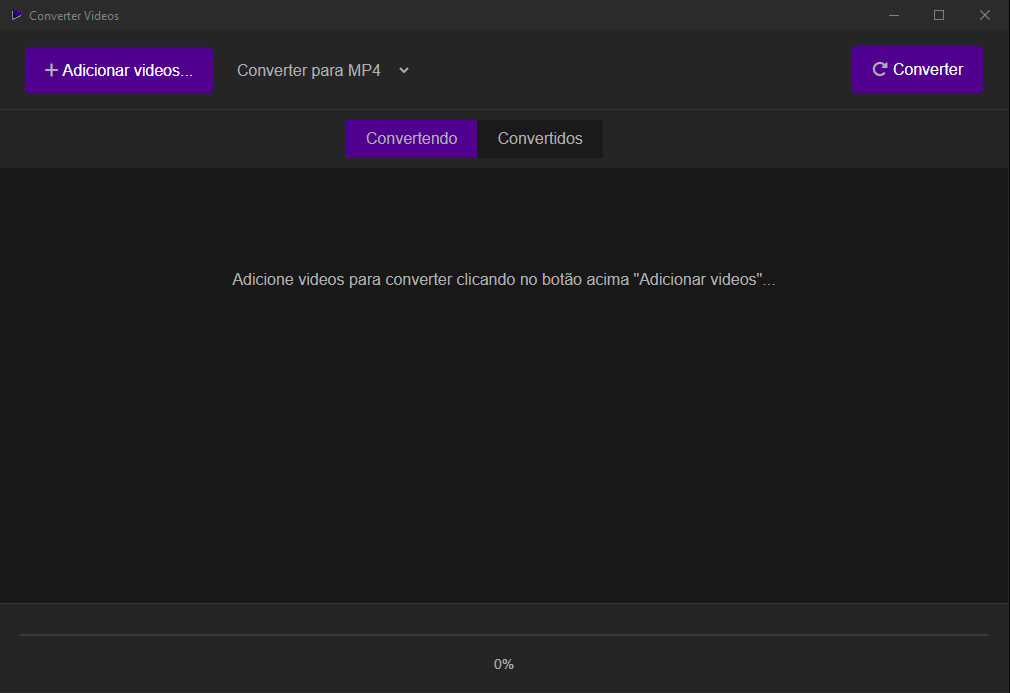
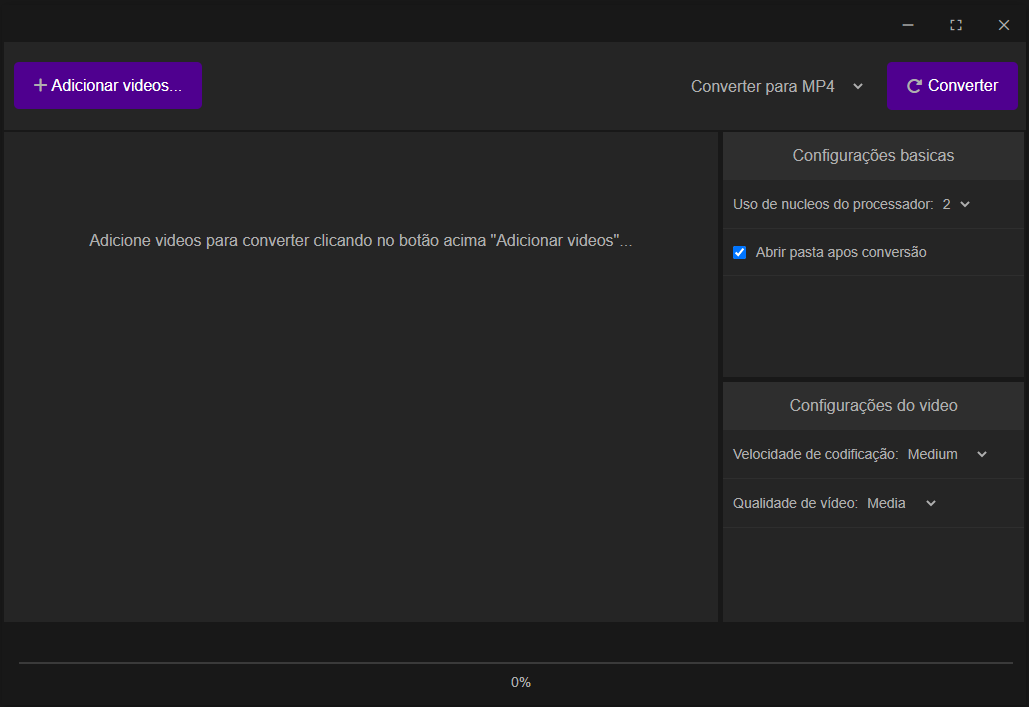
window frame customization

diff --git a/src/renderer/styles/styles.scss b/src/renderer/styles/styles.scss
@@ -30,14 +30,41 @@ $color-progressBg: #3a3a3a;
 body {
   font-family: Arial, Helvetica, sans-serif;
   background-color: $color-bg;
+  border: 2px solid $color-bg;
 }
 
 header {
-  padding: 20px 10px;
   background-color: $color-twobg;
   position: fixed;
   width: 100%;
+
+  div.windowoptions {
+    height: 35px;
+    background-color: $color-bg;
+    width: 100%;
+    display: flex;
+    justify-content: space-between;
+    -webkit-app-region: drag;
+
+    div.side {
+      display: flex;
+      align-items: center;
+
+      span {
+        font-size: 18px;
+        padding: 5px 15px;
+        -webkit-app-region: no-drag;
+        cursor: pointer;
+
+        &:hover {
+          background-color: $color-button;
+        }
+      }
+    }
+  }
+
   form {
+    padding: 20px 10px;
     display: flex;
     justify-content: space-between;
     align-items: center;
@@ -108,12 +135,46 @@ section {
   display: flex;
   justify-content: space-between;
   align-items: center;
-  padding-top: 90px;
+  padding-top: 120px;
   border-top: 5px solid #181818;
+
+  #popUpVideoAnalize {
+    position: fixed;
+    width: 100%;
+    height: 95vh;
+    bottom: 0;
+    background-color: #000000b4;
+    display: none;
+    z-index: 999;
+
+    justify-content: center;
+    align-items: center;
+
+    div.popUp {
+      width: 400px;
+      background-color: #181818;
+      padding: 50px 30px;
+      display: flex;
+      flex-direction: column;
+      align-items: center;
+      border-radius: 10px;
+
+      h3 {
+        text-align: center;
+      }
+
+      img {
+        // margin: 0 auto;
+        padding-top: 30px;
+        width: 30px;
+        object-fit: contain;
+      }
+    }
+  }
 
   #videos_for_converte_Container {
     width: 70%;
-    height: 80vh;
+    height: 70vh;
     background-color: #252525;
 
     #convertingList {
@@ -175,11 +236,12 @@ section {
   }
   #options_Container {
     width: 30%;
+    // height: 70vh;
     background-color: #252525;
 
     div {
-      height: 40vh;
-      border: 5px solid #181818;
+      height: 35vh;
+      border-left: 5px solid #181818;
       border-top: 0px;
       border-bottom: 0px;
       background-color: #252525;
@@ -232,7 +294,7 @@ section {
 #progress-bar_container {
   background-color: $color-bg;
   display: flex;
-  display: none;
+  // display: none;
   flex-direction: column;
   width: 100%;
   position: fixed;

diff --git a/src/renderer/styles/styles.css b/src/renderer/styles/styles.css
@@ -19,15 +19,37 @@
 body {
   font-family: Arial, Helvetica, sans-serif;
   background-color: #181818;
+  border: 2px solid #181818;
 }
 
 header {
-  padding: 20px 10px;
   background-color: #252525;
   position: fixed;
   width: 100%;
 }
+header div.windowoptions {
+  height: 35px;
+  background-color: #181818;
+  width: 100%;
+  display: flex;
+  justify-content: space-between;
+  -webkit-app-region: drag;
+}
+header div.windowoptions div.side {
+  display: flex;
+  align-items: center;
+}
+header div.windowoptions div.side span {
+  font-size: 18px;
+  padding: 5px 15px;
+  -webkit-app-region: no-drag;
+  cursor: pointer;
+}
+header div.windowoptions div.side span:hover {
+  background-color: #4f008f;
+}
 header form {
+  padding: 20px 10px;
   display: flex;
   justify-content: space-between;
   align-items: center;
@@ -88,12 +110,41 @@ section {
   display: flex;
   justify-content: space-between;
   align-items: center;
-  padding-top: 90px;
+  padding-top: 120px;
   border-top: 5px solid #181818;
+}
+section #popUpVideoAnalize {
+  position: fixed;
+  width: 100%;
+  height: 95vh;
+  bottom: 0;
+  background-color: rgba(0, 0, 0, 0.7058823529);
+  display: none;
+  z-index: 999;
+  justify-content: center;
+  align-items: center;
+}
+section #popUpVideoAnalize div.popUp {
+  width: 400px;
+  background-color: #181818;
+  padding: 50px 30px;
+  display: flex;
+  flex-direction: column;
+  align-items: center;
+  border-radius: 10px;
+}
+section #popUpVideoAnalize div.popUp h3 {
+  text-align: center;
+}
+section #popUpVideoAnalize div.popUp img {
+  padding-top: 30px;
+  width: 30px;
+  -o-object-fit: contain;
+     object-fit: contain;
 }
 section #videos_for_converte_Container {
   width: 70%;
-  height: 80vh;
+  height: 70vh;
   background-color: #252525;
 }
 section #videos_for_converte_Container #convertingList {
@@ -150,8 +201,8 @@ section #options_Container {
   background-color: #252525;
 }
 section #options_Container div {
-  height: 40vh;
-  border: 5px solid #181818;
+  height: 35vh;
+  border-left: 5px solid #181818;
   border-top: 0px;
   border-bottom: 0px;
   background-color: #252525;
@@ -195,7 +246,6 @@ section #options_Container #videoConfigs {
 #progress-bar_container {
   background-color: #181818;
   display: flex;
-  display: none;
   flex-direction: column;
   width: 100%;
   position: fixed;

diff --git a/src/renderer/renderer.js b/src/renderer/renderer.js
@@ -25,7 +25,21 @@ const uiElements = {
   SpeedOption: document.querySelector("#SpeedOption"),
   quality: document.querySelector("#quality"),
   checkboxOpendDir: document.getElementById("checkboxOpendDir"),
+  windowMinimize: document.getElementById("windowMinimize"),
+  windowfullScreen: document.getElementById("windowfullScreen"),
+  closeWindowbtn: document.getElementById("closeWindowbtn"),
+  popUpVideoAnalize: document.getElementById("popUpVideoAnalize"),
 };
+
+uiElements.closeWindowbtn.addEventListener("click", () => {
+  ipcRenderer.send("closeWindow");
+});
+uiElements.windowfullScreen.addEventListener("click", () => {
+  ipcRenderer.send("windowFullScreen");
+});
+uiElements.windowMinimize.addEventListener("click", () => {
+  ipcRenderer.send("Windowminimize");
+});
 
 let videosOnlistForConvert = [];
 let videoHistory = [];
@@ -194,8 +208,6 @@ ipcRenderer.on("conversion-complete", (event, videoName, outputPath) => {
       });
     }
   }
-
-  // addVideosConvertedOnHistory(videoName);
 });
 
 ipcRenderer.on("conversion-error", (event, videoName, error) => {
@@ -206,12 +218,13 @@ ipcRenderer.on("Videoinfoanalysis-started", (event, videoName) => {
   VideoInfoAnalysisList.push(videoName);
 
   if (VideoInfoAnalysisList.length <= 1) {
-    window.alert("Analizando informaçoes dos videos");
+    uiElements.popUpVideoAnalize.style.display = "flex";
   }
 });
 
 ipcRenderer.on("videoInformation-ready", (event, videoName, videoInfo) => {
   if (videoName && videoInfo) {
+    uiElements.popUpVideoAnalize.style.display = "none";
     const item = `
     <div id="${videoName}" class="videoItemList">
       <span class="videoname" id="${videoName}_videoname">

diff --git a/src/renderer/index.html b/src/renderer/index.html
@@ -9,10 +9,37 @@
       src="https://kit.fontawesome.com/2e576afcbf.js"
       crossorigin="anonymous"
     ></script>
+    <link
+      rel="stylesheet"
+      href="https://fonts.googleapis.com/css2?family=Material+Symbols+Outlined:opsz,wght,FILL,GRAD@48,400,0,0"
+    />
   </head>
 
   <body>
     <header>
+      <div class="windowoptions">
+        <div class="side"></div>
+        <div class="side">
+          <span
+            title="Minimize"
+            class="material-symbols-outlined"
+            id="windowMinimize"
+          >
+            remove
+          </span>
+          <span class="material-symbols-outlined" id="windowfullScreen">
+            fullscreen
+          </span>
+
+          <span
+            title="Close"
+            class="material-symbols-outlined"
+            id="closeWindowbtn"
+          >
+            close
+          </span>
+        </div>
+      </div>
       <form>
         <div>
           <label id="labelForinput-file" class="form_item" for="input-file"
@@ -44,6 +71,12 @@
     </header>
 
     <section>
+      <div id="popUpVideoAnalize">
+        <div class="popUp">
+          <h3>Analizando informaçoes dos videos</h3>
+          <img src="../assets/loading-gif.gif" alt="" />
+        </div>
+      </div>
       <div id="videos_for_converte_Container" class="section_item">
         <div id="convertingList">
           <p>

diff --git a/src/main.js b/src/main.js
@@ -30,11 +30,11 @@ ffmpeg.setFfprobePath(ffprobePath);
 
 function createWindow() {
   mainWindow = new BrowserWindow({
-    width: 1115,
+    width: 1024,
     height: 700,
     minHeight: 700,
     minWidth: 1024,
-
+    frame: false,
     webPreferences: {
       nodeIntegration: true,
       contextIsolation: false,
@@ -74,6 +74,21 @@ function createWindow() {
   ]);
 
   tray.setContextMenu(trayMenu);
+
+  ipcMain.on("closeWindow", () => {
+    mainWindow.close();
+  });
+
+  ipcMain.on("Windowminimize", () => {
+    mainWindow.minimize();
+  });
+  ipcMain.on("windowFullScreen", () => {
+    if (mainWindow.isMaximized()) {
+      mainWindow.restore();
+    } else {
+      mainWindow.maximize();
+    }
+  });
 }
 
 //Menu template
